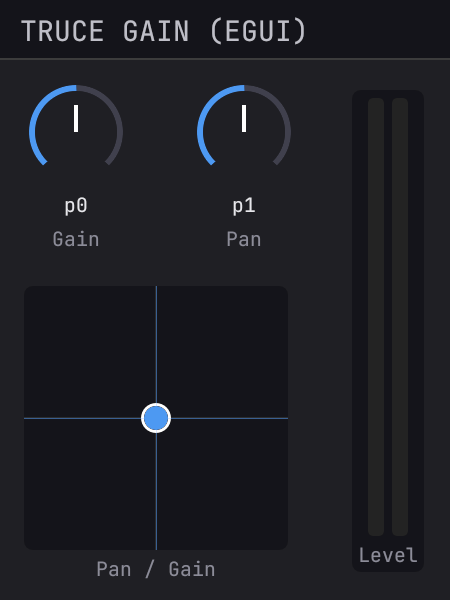
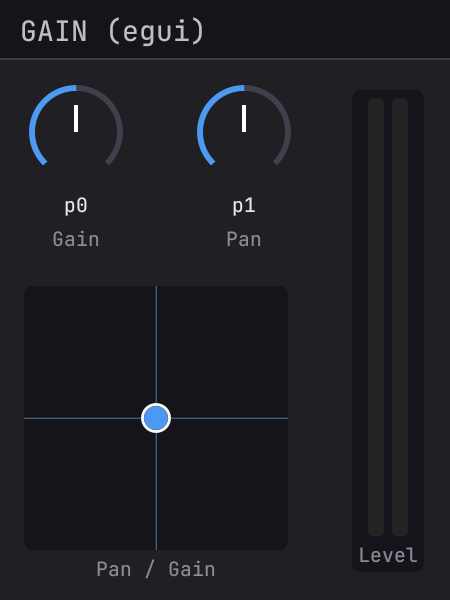
gain example GUI tweaks

Changed region(s): [[0.0311, 0.03, 0.6844, 0.09]]

diff --git a/examples/gain-iced/src/lib.rs b/examples/gain-iced/src/lib.rs
@@ -7,8 +7,8 @@ const JETBRAINS_MONO: Font = Font {
     family: iced::font::Family::Name("JetBrains Mono"),
     ..Font::DEFAULT
 };
-const WINDOW_W: u32 = 184;
-const WINDOW_H: u32 = 305;
+const WINDOW_W: u32 = 188;
+const WINDOW_H: u32 = 325;
 
 use truce::prelude::*;
 use truce_iced::{
@@ -64,7 +64,7 @@ impl IcedPlugin<GainParams> for GainUi {
         &'a self,
         params: &'a ParamState<GainParams>,
     ) -> Element<'a, Message<GainMsg>> {
-        let pad = 8.0;
+        let pad = 10.0;
         let gap = 10.0;
 
         let header: Element<'a, Message<GainMsg>> = container(
@@ -81,51 +81,46 @@ impl IcedPlugin<GainParams> for GainUi {
         })
         .into();
 
-        // Top row: knob + slider
-        let top_row: Element<'a, Message<GainMsg>> = Row::new()
-            .push(Into::<Element<'a, Message<GainMsg>>>::into(
-                knob(P::Gain, params).label("Gain").size(60.0),
-            ))
-            .push(Into::<Element<'a, Message<GainMsg>>>::into(
-                knob(P::Pan, params).label("Pan").size(60.0),
-            ))
-            .spacing(gap)
-            .align_y(alignment::Vertical::Center)
-            .into();
-
-        // Bottom row: XY pad + meter
-        let bottom_row: Element<'a, Message<GainMsg>> = Row::new()
+        // Left column: knobs, XY pad, footer
+        let left: Element<'a, Message<GainMsg>> = Column::new()
+            .push(
+                Row::new()
+                    .push(Into::<Element<'a, Message<GainMsg>>>::into(
+                        knob(P::Gain, params).label("Gain").size(60.0),
+                    ))
+                    .push(Into::<Element<'a, Message<GainMsg>>>::into(
+                        knob(P::Pan, params).label("Pan").size(60.0),
+                    ))
+                    .spacing(gap)
+                    .align_y(alignment::Vertical::Center),
+            )
             .push(Into::<Element<'a, Message<GainMsg>>>::into(
                 xy_pad(P::Pan, P::Gain, params).label("Pan / Gain").size(130.0),
             ))
+            .push(
+                text(format!(
+                    "Gain: {}  Pan: {}",
+                    params.label(P::Gain),
+                    params.label(P::Pan),
+                ))
+                .size(10)
+                .font(JETBRAINS_MONO)
+                .color(iced::Color::from_rgb(0.55, 0.55, 0.60)),
+            )
+            .spacing(gap)
+            .into();
+
+        // Body: left column + meter spanning full height
+        let body: Element<'a, Message<GainMsg>> = Row::new()
+            .push(left)
             .push(Into::<Element<'a, Message<GainMsg>>>::into(
                 meter(&[P::MeterLeft, P::MeterRight], params)
                     .label("Level")
-                    .size(24.0, 130.0),
+                    .size(24.0, 230.0),
             ))
             .spacing(gap)
-            .align_y(alignment::Vertical::Top)
-            .into();
-
-        // Footer
-        let footer: Element<'a, Message<GainMsg>> = text(format!(
-            "Gain: {}  Pan: {}",
-            params.label(P::Gain),
-            params.label(P::Pan),
-        ))
-        .size(10)
-        .font(JETBRAINS_MONO)
-        .color(iced::Color::from_rgb(0.55, 0.55, 0.60))
-        .width(Length::Fill)
-        .align_x(alignment::Horizontal::Center)
-        .into();
-
-        let body: Element<'a, Message<GainMsg>> = Column::new()
-            .push(top_row)
-            .push(bottom_row)
-            .push(footer)
-            .spacing(gap)
             .padding(pad)
+            .align_y(alignment::Vertical::Top)
             .into();
 
         Column::new()

diff --git a/examples/gain-slint/src/lib.rs b/examples/gain-slint/src/lib.rs
@@ -77,7 +77,7 @@ impl PluginLogic for GainSlint {
     }
 
     fn custom_editor(&self) -> Option<Box<dyn truce_core::editor::Editor>> {
-        Some(Box::new(SlintEditor::new((222, 160), |state: ParamState| {
+        Some(Box::new(SlintEditor::new((222, 280), |state: ParamState| {
             let ui = GainUi::new().unwrap();
 
             // UI → host
@@ -132,7 +132,7 @@ mod tests {
     fn gui_snapshot() {
         truce_slint::snapshot::assert_snapshot(
             "screenshots", "gain_slint_default",
-            222, 160, 2.0, 0,
+            222, 280, 2.0, 0,
             |state| {
                 let ui = GainUi::new().unwrap();
                 Box::new(move |state: &truce_slint::ParamState| {

diff --git a/examples/gain-egui/src/lib.rs b/examples/gain-egui/src/lib.rs
@@ -94,7 +94,7 @@ fn gain_ui(ctx: &egui::Context, state: &ParamState) {
             ui.horizontal_centered(|ui| {
                 ui.add_space(10.0);
                 ui.label(
-                    egui::RichText::new("TRUCE GAIN (EGUI)")
+                    egui::RichText::new("GAIN (egui)")
                         .size(14.0)
                         .color(HEADER_TEXT)
                         .strong(),
